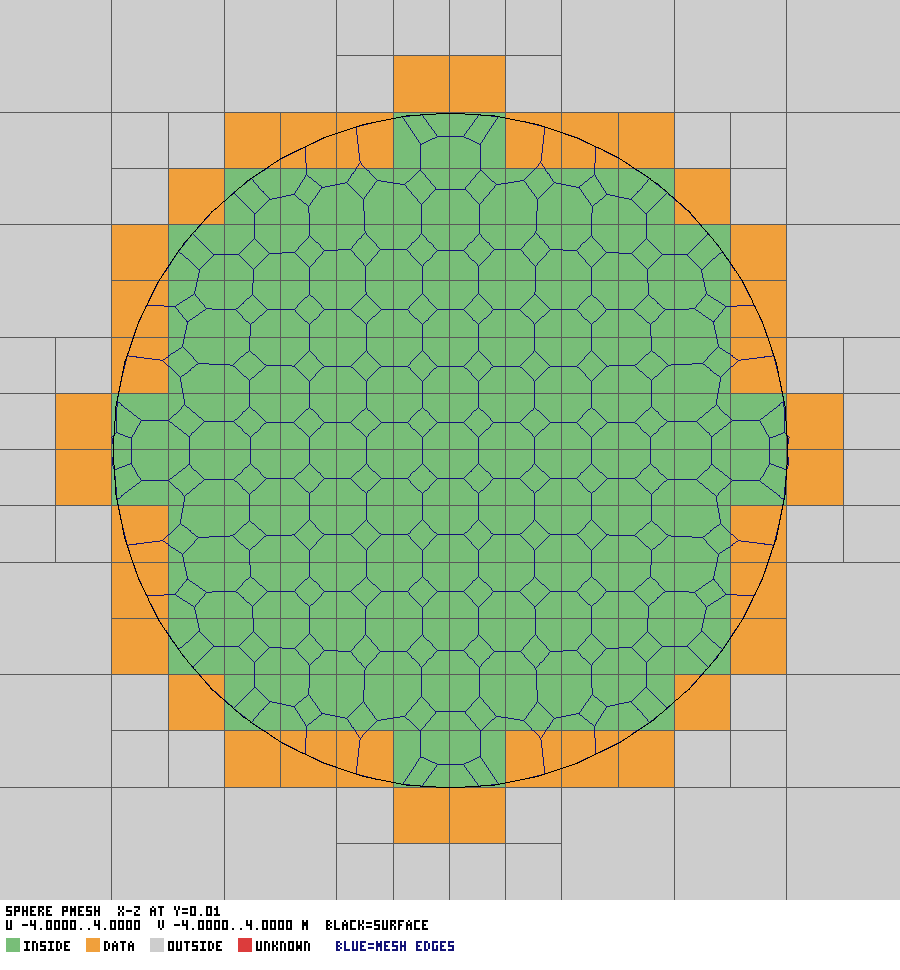
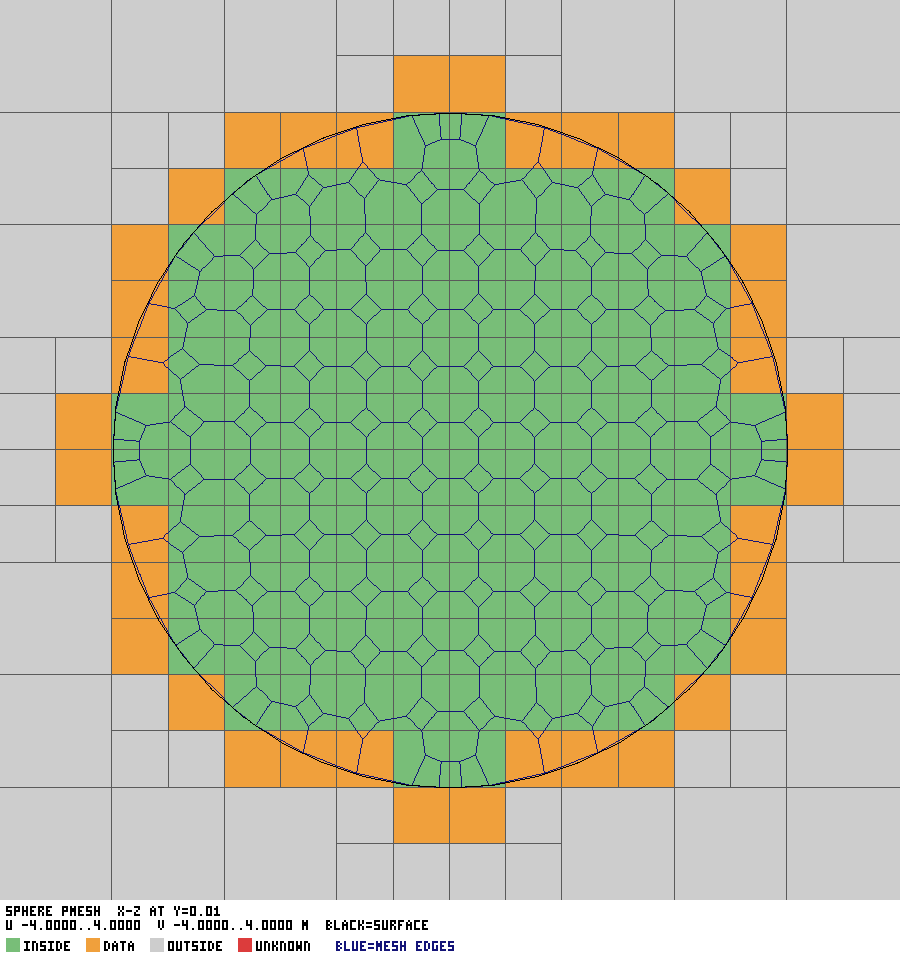
gh:#1272 gh:#1273: re-measured with surfaceMorpherCells/topologicalCleaner and meshSurfaceOptimizer wired in (tetMesh sphere -1.36 %, pipe -0.29 %; pMesh -1.54 % / -0.35 %); images regenerated; docs corrected
Claude-Session: https://claude.ai/code/session_01HxmCueofxcJNMntRMmjqoW

diff --git a/crates/outram-park-fork-cfmesh/src/pipeline/tet_mesh.rs b/crates/outram-park-fork-cfmesh/src/pipeline/tet_mesh.rs
@@ -37,12 +37,12 @@
 //! | step | upstream | here |
 //! |---|---|---|
 //! | `templateGeneration` | `tetMeshExtractorOctree` | [`crate::tet_creator_octree`], [`crate::tet_mesh_extractor_octree`] (ported) |
-//! | `surfaceTopology` | `surfaceMorpherCells` + `topologicalCleaner` | **not ported** (topology track, gh:#1267): skipped, noted |
-//! | `surfaceProjection` | `meshSurfaceMapper::mapVerticesOntoSurface`, `meshSurfaceOptimizer::untangleSurface` | `surface_mapper::map_vertices_onto_surface_untangled`: the mapping, with tangled moves reverted instead of untangled |
+//! | `surfaceTopology` | `surfaceMorpherCells` + `topologicalCleaner` (repeated while the cleaner changes the mesh) | `topology::{surface_morpher_cells, topological_cleaner}` (gh:#1267) |
+//! | `surfaceProjection` | `meshSurfaceMapper::mapVerticesOntoSurface`, `meshSurfaceOptimizer::untangleSurface` | `surface_optimizer::map_mesh_to_surface` (gh:#1259) |
 //! | `patchAssignment` | `edgeExtractor` | **not ported** (not this track): `patches::assign_patches_by_region` (nearest triangle) stands in |
-//! | `edgeExtraction` | `meshSurfaceEdgeExtractorNonTopo`, `meshSurfaceOptimizer::optimizeSurface` | the first as ported: `correct_edges::correct_edges_between_patches` then `surface_mapper::map_vertices_onto_surface_patches_untangled_given` (moves that tangle a cell reverted); the second **not ported** (surface track, gh:#1259) |
+//! | `edgeExtraction` | `meshSurfaceEdgeExtractorNonTopo`, `meshSurfaceOptimizer::optimizeSurface` | `correct_edges::correct_edges_between_patches` then `surface_mapper::map_vertices_onto_surface_patches_given` (`decomposeBoundaryFaces`, `remapBoundaryPoints`); `surface_optimizer::optimise_mesh_surface` |
 //! | `boundaryLayerGeneration` | `boundaryLayers`, only with a `boundaryLayers` dict | no such dict here: nothing to do, as upstream without one |
-//! | `meshOptimisation` | `meshOptimizer`: `optimizeSurface`, `optimizeMeshFV`, `optimizeLowQualityFaces`, `optimizeBoundaryLayer(false)`, `untangleMeshFV` | `mesh_optimizer` with upstream's boundary moves and LP untangler on; `optimizeSurface` **not ported** (surface track); `optimizeBoundaryLayer` has no layer to act on |
+//! | `meshOptimisation` | `meshOptimizer`: `optimizeSurface`, `optimizeMeshFV`, `optimizeLowQualityFaces`, `optimizeBoundaryLayer(false)`, `untangleMeshFV` | `mesh_optimizer` (`optimize_surface`, and the volume drivers with upstream's boundary moves and LP untangler on); `optimizeBoundaryLayer` has no layer to act on |
 //! | `boundaryLayerRefinement` | `refineBoundaryLayers`, only with a `boundaryLayers` dict | nothing to do |
 //! | (always) | `renumberMesh`, `renameBoundaryPatches` | [`crate::renumber_mesh`], [`crate::rename_boundary_patches`] (ported) |
 //!
@@ -563,11 +563,12 @@ pub(crate) mod tests {
     /// the crate's `tetrahedralize` + `flip_to_delaunay` on the sphere
     /// (0.5 m) and the pipe (2 mm), at equal cell size. Records tet count,
     /// volume error against the surface, `check_quality`, run time.
-    /// Results (2026-11-05): volume error sphere +26.69 % (baseline −1.72 %),
-    /// pipe +22.33 % (−0.54 %), 0 non-positive cells, closed; cells 13 968 /
-    /// 35 416 against 21 888 / 57 600. The error measures the unported
-    /// `surfaceMorpherCells` / `untangleSurface` (record:
-    /// `verification_and_validation/tet_mesh_gh1272/README.md`).
+    /// Results (2026-11-05), with gh:#1267 / #1259 wired in: volume error
+    /// sphere −1.36 % (baseline −1.72 %), pipe −0.29 % (−0.54 %), 0
+    /// non-positive cells, closed, 0 non-manifold boundary points; cells
+    /// 12 840 / 31 136 against 21 888 / 57 600. (Before those tracks landed:
+    /// +26.69 % / +22.33 %, the missing steps.) Record:
+    /// `verification_and_validation/tet_mesh_gh1272/README.md`.
     #[test]
     fn diagnose_tet_mesh_against_the_crate_tets() {
         let (sp, st) = sphere_surface(Vec3::ZERO, 3.0, 24, 48);
@@ -593,7 +594,7 @@ pub(crate) mod tests {
             println!("{name}: tet_mesh cells {} vol {:.6e} err {err:+.3} % nonpos {} validate {v:?} non-orth {:.2} skew {:.3} time {dt:.2} s", m.n_cells, m.total_volume(), n_nonpositive_cells(&m), q.max_non_orthogonality_deg, q.max_skewness);
             println!("{name}: template cells {} vol {:.6e} non-orth {:.2} skew {:.3}", tm.n_cells, tm.total_volume(), qt.max_non_orthogonality_deg, qt.max_skewness);
             println!("{name}: baseline cells {} vol {:.6e} err {berr:+.3} % nonpos {} non-orth {:.2} skew {:.3} time {bt:.2} s", b.n_cells, b.total_volume(), n_nonpositive_cells(&b), qb.max_non_orthogonality_deg, qb.max_skewness);
-            println!("{name}: patches {:?} types {:?}", m.patches.iter().map(|x| (x.name.clone(), x.n_faces)).collect::<Vec<_>>(), rep.patch_types);
+            println!("{name}: patches {:?} types {:?}; non-manifold boundary points {}", m.patches.iter().map(|x| (x.name.clone(), x.n_faces)).collect::<Vec<_>>(), rep.patch_types, crate::pipeline::p_mesh::tests::non_manifold_boundary_points(&m));
             for n in &rep.notes {
                 println!("  {n}");
             }

diff --git a/crates/outram-park-fork-cfmesh/src/pipeline/p_mesh.rs b/crates/outram-park-fork-cfmesh/src/pipeline/p_mesh.rs
@@ -30,13 +30,14 @@
 //! ([`crate::voronoi_mesh_extractor`]) and upstream's differences:
 //!
 //! - `surfaceTopology` is `surfaceMorpherCells` alone (no
-//!   `topologicalCleaner` loop); not ported, noted.
+//!   `topologicalCleaner` loop).
 //! - `surfaceProjection` runs `preMapVertices` first (not ported, surface
 //!   track; noted).
-//! - `edgeExtraction` uses `meshSurfaceEdgeExtractorFUN` (not ported; the
-//!   same stand-in as `tetMesh`) and `optimiseMeshSurface` also untangles.
+//! - `edgeExtraction` uses `meshSurfaceEdgeExtractorFUN` (not ported;
+//!   `surface_mapper`'s patch mapping stands in), and `optimiseMeshSurface`
+//!   untangles once more after `optimizeSurface`.
 //! - `meshOptimisation` runs `meshSurfaceOptimizer::optimizeSurface` before
-//!   the volume optimiser (not ported, noted).
+//!   the volume optimiser, in place of `meshOptimizer::optimizeSurface`.
 //! - `workflowCompleted` is never called: the meta data stays on the mesh
 //!   (upstream as written).
 //!
@@ -58,7 +59,7 @@ pub fn p_mesh_restart(points: &[Vec3], tris: &[[usize; 3]], regions: Option<&Sur
 }
 
 #[cfg(test)]
-mod tests {
+pub(crate) mod tests {
     use super::*;
     use crate::mesh_octree_creator::MeshDict;
     use crate::pipeline::tet_mesh::create_octree;
@@ -260,9 +261,10 @@ mod tests {
     }
 
     /// V&V (gh:#1273), prediction 5: the `pMesh` workflow on the sphere and
-    /// the pipe against `tetMesh`. Results (2026-11-05): −0.97 % (sphere,
-    /// 1 749 cells) and −0.05 % (pipe, 4 303 cells), 0 non-positive;
-    /// prediction 5 missed the other way (record: `p_mesh_gh1273/`).
+    /// the pipe against `tetMesh`. Results (2026-11-05), with gh:#1267 /
+    /// #1259 wired in: −1.54 % (sphere, 1 749 cells) and −0.35 % (pipe,
+    /// 4 303 cells), 0 non-positive. Before they landed: −0.97 % / −0.05 %.
+    /// Record: `p_mesh_gh1273/`.
     #[test]
     fn diagnose_p_mesh_workflow() {
         let (sp, st) = sphere_surface(Vec3::ZERO, 3.0, 24, 48);

diff --git a/crates/outram-park-fork-cfmesh/docs/upstream_coverage.md b/crates/outram-park-fork-cfmesh/docs/upstream_coverage.md
@@ -61,7 +61,7 @@ Paths are under `meshLibrary/utilities/` unless they start with `meshLibrary/` o
 | Upstream | Lines | Status | Rust | Notes |
 |---|---:|---|---|---|
 | `executables/tetMesh` | 65 | ~~partial~~ **ported (2026-11-05, gh:#1272)** | `pipeline::tet_mesh::{tet_mesh, tet_mesh_restart}`; `pipeline::surface_to_tet_dual_mesh(_multipatch)` kept | Thin `main` over `tetMeshGenerator`. Settings are typed (`TetMeshOptions`); no `meshDict` reader. |
-| `meshLibrary/tetMesh/tetMeshGenerator` | 558 | ~~partial~~ **ported (2026-11-05, gh:#1272)** | `pipeline::tet_mesh` (the generator and `generateMesh`); `boundary_layer_optimisation`, `surface_mapper`, `pipeline` kept | Every member is in Rust. Steps whose callees are other rows' gaps run through what exists and say so in `TetMeshReport::notes`: `surfacePreparation` (topology track) and `optimiseMeshSurface` (surface track) are skipped, `untangleSurface` is replaced by reverting tangled moves, `extractPatches` uses the nearest triangle. No `boundaryLayers` dict and no `anisotropicSources`. Results: `verification_and_validation/tet_mesh_gh1272/`. |
+| `meshLibrary/tetMesh/tetMeshGenerator` | 558 | ~~partial~~ **ported (2026-11-05, gh:#1272)** | `pipeline::tet_mesh` (the generator and `generateMesh`); `boundary_layer_optimisation`, `surface_mapper`, `pipeline` kept | Every member is in Rust. ~~Steps whose callees are other rows' gaps run through what exists and say so in `TetMeshReport::notes`: `surfacePreparation` (topology track) and `optimiseMeshSurface` (surface track) are skipped, `untangleSurface` is replaced by reverting tangled moves, `extractPatches` uses the nearest triangle.~~ **CORRECTED 2026-11-05:** `surfacePreparation`, `untangleSurface`, `optimiseMeshSurface` and `optimizeSurface` call the gh:#1267 / gh:#1259 ports; only `extractPatches` (`edgeExtractor`, nearest triangle instead) is a gap, noted in `TetMeshReport::notes`. No `boundaryLayers` dict and no `anisotropicSources`. Results: `verification_and_validation/tet_mesh_gh1272/`. |
 | `meshLibrary/tetMesh/tetMeshExtractorOctree` | 386 | ~~not ported~~ **ported (2026-11-05, gh:#1272)** | `tet_mesh_extractor_octree` (with the shared `polyMeshGen` assembly `poly_mesh_from_cells`) | Beside `tet::tetrahedralize` + `delaunay::flip_to_delaunay` (§3); compared on the sphere and the pipe. |
 | `meshLibrary/utilities/tetrahedra/tetCreatorOctree` | 1678 | ~~not ported~~ **ported (2026-11-05, gh:#1272)** | `tet_creator_octree` | All five tet routines. Upstream's unguarded reads are counted (`TetCreatorDefects`), zero on every run. |
 | `executables/cartesianMesh` | 62 | not ported | — | Thin `main` over `cartesianMeshGenerator`. |
@@ -705,24 +705,27 @@ miss are `verification_and_validation/tet_mesh_gh1272/README.md` and
   - `edgeExtraction` calls the ported `meshSurfaceEdgeExtractorNonTopo`
     route (`correct_edges` + `surface_mapper`).
   - **Gaps, called through what exists and noted per run:**
-    `surfaceMorpherCells` + `topologicalCleaner` (topology track),
+    ~~`surfaceMorpherCells` + `topologicalCleaner` (topology track),
     `meshSurfaceOptimizer` and `meshOptimizer::optimizeSurface` (surface
-    track), `edgeExtractor`, `boundaryLayers` / `refineBoundaryLayers`
-    (layers track), `symmetryPlaneOptimisation`.
+    track),~~ `edgeExtractor`, `boundaryLayers` / `refineBoundaryLayers`
+    (layers track), `symmetryPlaneOptimisation`. **CORRECTED 2026-11-05:**
+    the struck steps are called since gh:#1267 and gh:#1259 merged.
   - **Differential (sphere 0.5 m / pipe 2 mm), against `tetrahedralize` +
-    `flip_to_delaunay`:** volume error +26.7 % / +22.3 % against
-    −1.72 % / −0.54 %; cells 13 968 / 35 416 against 21 888 / 57 600; the
-    octree template's non-orthogonality is 0. The volume error measures
-    the missing `surfaceMorpherCells` and `untangleSurface`: the boundary
-    stays on the DATA leaves.
+    `flip_to_delaunay`:** volume error ~~+26.7 % / +22.3 %~~ **−1.36 % /
+    −0.29 %** against −1.72 % / −0.54 %; cells ~~13 968 / 35 416~~
+    **12 840 / 31 136** against 21 888 / 57 600; the octree template's
+    non-orthogonality is 0. The struck numbers were measured before
+    gh:#1267 / #1259 landed, with the boundary left on the DATA leaves.
 - **Item 19 (gh:#1273), `pMesh`:** new module `voronoi_mesh_extractor`;
   `pipeline::p_mesh::{p_mesh, p_mesh_restart}`.
   - On the same tets the Voronoi cells are exactly the interior tet
     vertices, and equal `CellCentre`'s cells to 9.8e-15 where
     `polyDualMesh` accepts the tets (box). It refuses the sphere and pipe
     templates (96 / 2 240 non-manifold boundary points).
-  - The workflow: −0.97 % (sphere) and −0.05 % (pipe) volume error, no
-    negative cell.
+  - The workflow: ~~−0.97 % (sphere) and −0.05 % (pipe)~~ **−1.54 % and
+    −0.35 %** (after gh:#1267 / #1259 were wired in) volume error, no
+    negative cell. The pipe's maximum non-orthogonality rose to 75.9° on
+    that re-run (not yet located).
 
 **Findings on the way, not fixed:**
 - the octree tet template has non-manifold boundary points, made by

diff --git a/crates/outram-park-fork-cfmesh/verification_and_validation/tet_mesh_gh1272/README.md b/crates/outram-park-fork-cfmesh/verification_and_validation/tet_mesh_gh1272/README.md
@@ -170,10 +170,13 @@ show cut edges only); the patch of each boundary face (not coloured).
 
 See the `pipeline::tet_mesh` docs for the step-by-step table.
 
-- `surfaceMorpherCells`, `topologicalCleaner` (topology track): skipped.
-- `meshSurfaceOptimizer::untangleSurface` / `optimizeSurface` and
+- ~~`surfaceMorpherCells`, `topologicalCleaner` (topology track): skipped.~~
+  **CORRECTED 2026-11-05:** called since gh:#1267 landed (re-measurement
+  below).
+- ~~`meshSurfaceOptimizer::untangleSurface` / `optimizeSurface` and
   `meshOptimizer::optimizeSurface` (surface track): skipped. Tangled mapping
-  moves are reverted instead.
+  moves are reverted instead.~~ **CORRECTED 2026-11-05:** called since
+  gh:#1259 landed; nothing is reverted any more.
 - `edgeExtractor` (patch assignment): the nearest triangle stands in.
 - `boundaryLayers`, `refineBoundaryLayers` (layers track): not offered. The
   workflow runs as upstream does without a `boundaryLayers` dict.
@@ -212,3 +215,34 @@ the gaps.
 - R3. Volume error within ±3 % on the sphere and ±2 % on the pipe (the
   boundary now reaches the surface).
 - R4. `untangleSurface` leaves 0 inverted points after the projection.
+
+**Results (2026-11-05, same tests and setups):**
+
+| case | route | cells | volume error | non-positive | non-manifold boundary points | max non-orth | max skew | time |
+|---|---|---|---|---|---|---|---|---|
+| sphere | `tet_mesh` | 12 840 | **−1.36 %** | 0 | 0 | 51.56° | 0.437 | 0.19 s |
+| sphere | baseline | 21 888 | −1.72 % | 0 | — | 80.23° | 0.402 | 2.56 s |
+| pipe | `tet_mesh` | 31 136 | **−0.29 %** | 0 | 0 | 67.16° | 0.624 | 1.53 s |
+| pipe | baseline | 57 600 | −0.54 % | 0 | — | 68.42° | 0.412 | 0.32 s |
+
+- R1 held: one `surfacePreparation` pass. The morpher removed 1 128 cells
+  (sphere) and 3 424 (pipe); no non-manifold boundary point is left.
+- R2 held.
+- R3 held, inside both bounds: −1.36 % and −0.29 %. `tetMesh` as upstream is
+  now closer to the surface than the crate's tets at the same cell size,
+  with 41–46 % fewer cells and a lower maximum non-orthogonality on the
+  sphere (51.6° against 80.2°).
+- R4 held: `untangleSurface` took the pipe from 27 inverted points to 0;
+  the sphere had none.
+- Pipe patches after renaming: inlet 332, outlet 332, walls 3 424 faces.
+  `correctEdgesBetweenPatches` changed nothing on this mesh.
+- Upstream steps still not in the workflow: `edgeExtractor` (the nearest
+  triangle stands in), `boundaryLayers` / `refineBoundaryLayers` (no dict),
+  `symmetryPlaneOptimisation`.
+
+The images above were regenerated after this re-run.
+~~"In the `tet_mesh` images the boundary is still on the octree"~~
+**CORRECTED 2026-11-05:** the boundary now lies on the surface trace all
+round in `sphere_xz_tet_mesh.png`, `sphere_xy_tet_mesh.png` and
+`pipe_xy_tet_mesh.png` (checked), with no fold and no detached tets. The
+template images are unchanged.

diff --git a/crates/outram-park-fork-cfmesh/verification_and_validation/p_mesh_gh1273/README.md b/crates/outram-park-fork-cfmesh/verification_and_validation/p_mesh_gh1273/README.md
@@ -76,6 +76,34 @@ The second needs `--features cell-centre-dual`.
 - `pMesh` never calls `workflowCompleted`, so the meta data stays on the
   mesh. This is asserted, and is upstream as written.
 
+### Re-measurement after the topology and surface tracks landed
+
+The table above was measured with the gaps (no `surfaceMorpherCells`, and
+tangled moves reverted instead of untangled). Since gh:#1267 and gh:#1259
+merged, `pMesh` calls `surfaceMorpherCells`, `untangleSurface` and
+`optimizeSurface` in upstream's places. **I wrote no prediction for this
+re-run** (the `tetMesh` predictions R1–R4 were written; I did not extend
+them to `pMesh`), so these numbers are a measurement, not a test of a
+prediction.
+
+| case | cells | volume error | non-positive | max non-orth | max skew | time |
+|---|---|---|---|---|---|---|
+| sphere 0.5 m | 1 749 | **−1.54 %** | 0 | 18.1° | 0.508 | 0.14 s |
+| pipe 2 mm | 4 303 | **−0.35 %** | 0 | **75.9°** | 0.861 | 2.05 s |
+
+- `surfaceMorpherCells` removed no cell on either case (the Voronoi
+  template already has one boundary face per cell's side), and
+  `untangleSurface` found no inverted point.
+- The volume errors moved from −0.97 % / −0.05 % to −1.54 % / −0.35 %.
+  The only steps that changed are the surface optimiser's, so the movement
+  is theirs; which moves cause it was not traced. Recorded, not tuned.
+- **The pipe's maximum non-orthogonality rose from 24.5° to 75.9°**, and
+  `optimizeLowQualityFaces` left its 16 low-quality faces at 16. Where the
+  bad faces are has not been located; it needs a look before this mesh is
+  used for a solve.
+- The images were regenerated after this re-run and show the same picture
+  as described below.
+
 ## Images
 
 Written by `examples/tet_mesh_images.rs` (command in `../tet_mesh_gh1272/`).
@@ -97,6 +125,8 @@ Written by `examples/tet_mesh_images.rs` (command in `../tet_mesh_gh1272/`).
 
 ## Not ported (see the `pipeline::p_mesh` docs)
 
-`surfaceMorpherCells`, `preMapVertices`, `meshSurfaceEdgeExtractorFUN`,
-`meshSurfaceOptimizer` (`optimizeSurface`, `untangleSurface`),
+~~`surfaceMorpherCells`,~~ `preMapVertices`, `meshSurfaceEdgeExtractorFUN`,
+~~`meshSurfaceOptimizer` (`optimizeSurface`, `untangleSurface`),~~
 `edgeExtractor`, `boundaryLayers`, `refineBoundaryLayers`.
+**CORRECTED 2026-11-05:** `surfaceMorpherCells` (gh:#1267) and
+`meshSurfaceOptimizer` (gh:#1259) are called since they landed.

diff --git a/crates/outram-park-fork-cfmesh/CLAUDE.md b/crates/outram-park-fork-cfmesh/CLAUDE.md
@@ -153,13 +153,15 @@ change it once. Upstream's `findNearestSurfacePoint` is not exact;
 body. Their templates are `tet_creator_octree` + `tet_mesh_extractor_octree`
 and `voronoi_mesh_extractor`; `workflow_controls`, `renumber_mesh` and
 `rename_boundary_patches` are the workflow's own steps. They do **not**
-change `surface_to_tet_dual_mesh`. Steps whose upstream callees belong to
-other tracks (`surfaceMorpherCells`, `topologicalCleaner`,
-`meshSurfaceOptimizer`, `edgeExtractor`, `boundaryLayers`) call what exists
-and say so in `TetMeshReport::notes`; when one of those lands, wire it in
-there and **re-measure** the records in
-`verification_and_validation/tet_mesh_gh1272/` and `p_mesh_gh1273/`. Today
-`tet_mesh`'s volume error (+26.7 % on the sphere) measures exactly those
-missing steps. The octree tet template has non-manifold boundary points
-(upstream's own tets in coarse `BOUNDARY` leaves), so `polyDualMesh`
-(`CellCentre`) refuses it on the sphere and the pipe.
+change `surface_to_tet_dual_mesh`. They call the topology track's
+`surfaceMorpherCells` / `topologicalCleaner` and the surface track's
+`meshSurfaceOptimizer` in upstream's places. Steps still missing
+(`edgeExtractor`, `boundaryLayers`, `preMapVertices`,
+`meshSurfaceEdgeExtractorFUN`) call what exists and say so in
+`TetMeshReport::notes`. When one of those lands, wire it in there and
+**re-measure** the records in `verification_and_validation/tet_mesh_gh1272/`
+and `p_mesh_gh1273/` (wiring the first two tracks moved `tet_mesh`'s sphere
+volume error from +26.7 % to −1.36 %). The raw octree tet template has
+non-manifold boundary points (upstream's own tets in coarse `BOUNDARY`
+leaves), which `surfacePreparation` removes; `polyDualMesh` (`CellCentre`)
+refuses the raw template on the sphere and the pipe.
